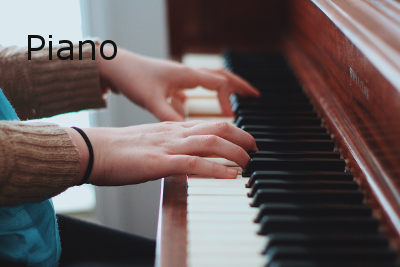
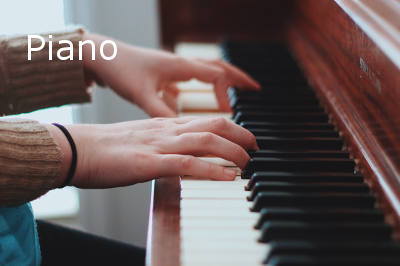
Add different pics for different screens

diff --git a/app/assets/stylesheets/custom.css.scss b/app/assets/stylesheets/custom.css.scss
@@ -1199,7 +1199,7 @@ ul.share-buttons .sr-only {
   .main_page_search_container{
     min-height: 400px;
     background-repeat: no-repeat;
-    background-image: asset_url('possible3.jpg');
+    background-image: asset_url('wide_screen_book.jpg');
     // padding: 0 100px !important;
     // background-size: 120% 120%;
     background-position: center center;
@@ -1213,11 +1213,11 @@ ul.share-buttons .sr-only {
   }
 
   .main_page_search_container_first_background{
-    background-image: asset_url('possible3.jpg');
+    background-image: asset_url('wide_screen_book.jpg');
   }
 
   .main_page_search_container_second_background{
-    background-image: asset_url('possible.jpg');
+    background-image: asset_url('wide_screen_piano.jpg');
   }
 
 } /* 600px */
